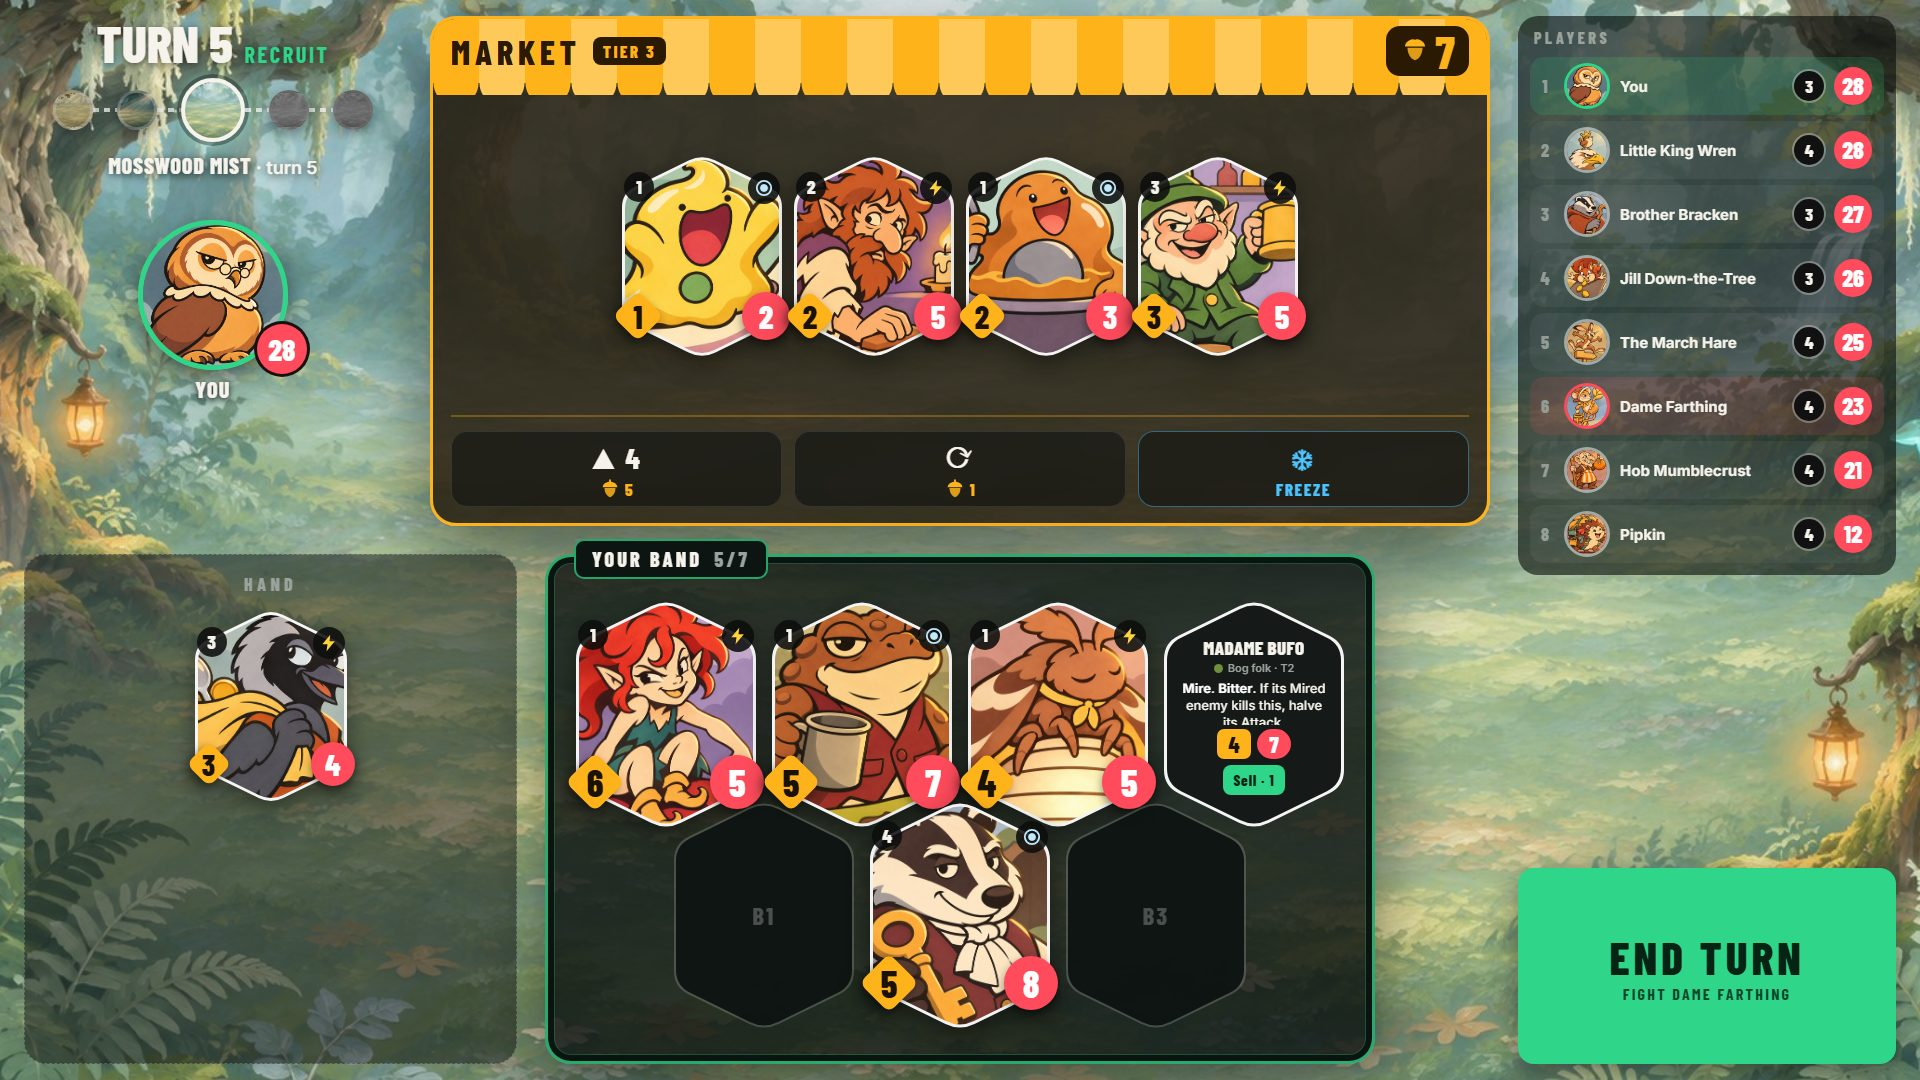
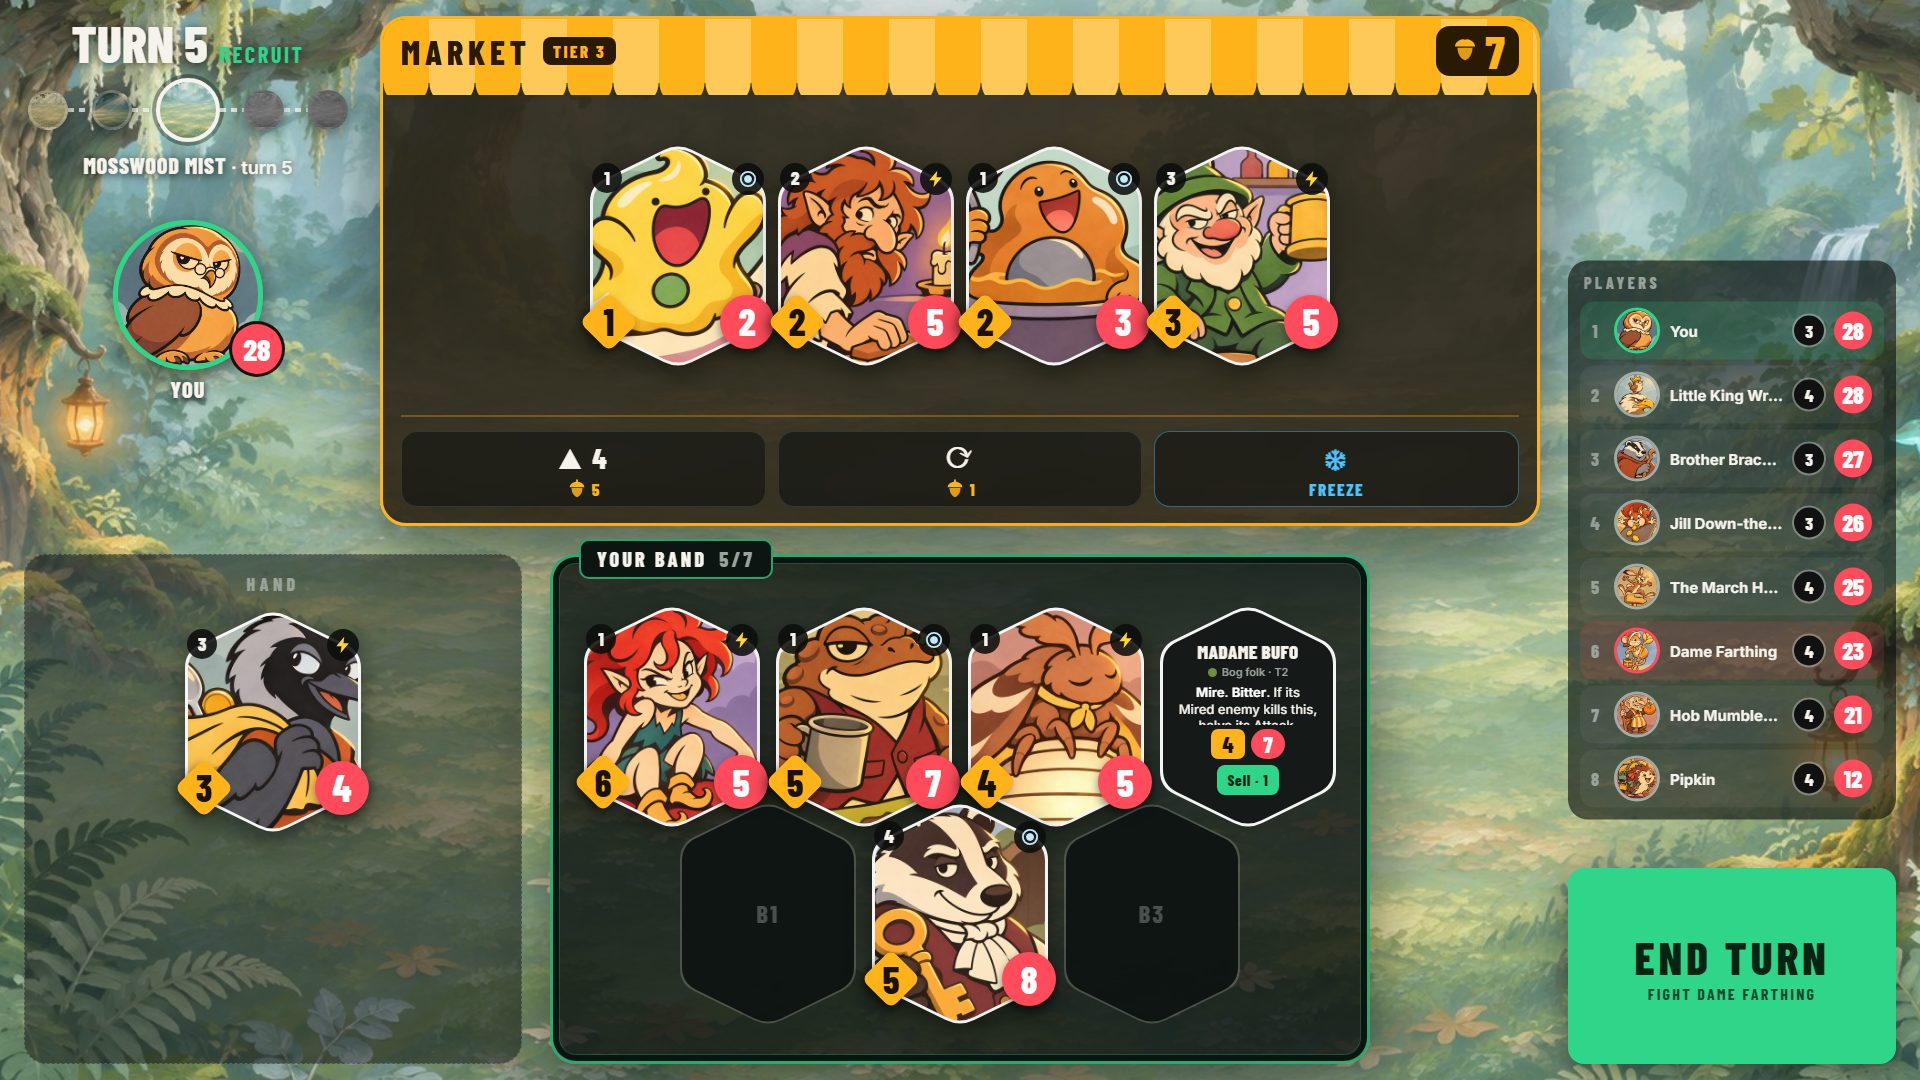
Clean Arena: one unit size everywhere, centred scoreboard, layout variants A-D
Owner direction (11 Nov): Clean Arena is the layout to build on; units are
the same size wherever they are; the scoreboard is centred top to bottom.

- Every unit (market, hand, your board, the opponent's) is 176 x 226.
- Scoreboard centred vertically in the right column.
- Lab dock "Layout A-D" (also ?layout=): A baseline; B slim portrait
  scoreboard with hero and End turn beside your board; C End turn as a
  tall bar on your board's edge; D portrait strip plus End turn bar.

Measured in all four: one unit size, board pinned across recruit and
fight, scoreboard centre y = 540, no overlapping blocks.

diff --git a/docs/design-lab/journey/arena/arena.css b/docs/design-lab/journey/arena/arena.css
@@ -29,7 +29,7 @@ html[data-mode="fight"] .jy-shade { background: radial-gradient(90% 80% at 50% 5
 .route-label b { font: 800 22px var(--num); letter-spacing: .04em; text-transform: uppercase; }
 
 /* ---- Leaderboard: the other players, top-right ---------------------------------- */
-.lobby { position: absolute; right: 24px; top: 16px; width: var(--side-up); display: flex; flex-direction: column; gap: 6px; padding: 12px; border-radius: 20px; background: rgba(10,14,12,.62); }
+.lobby { position: absolute; right: 24px; top: 50%; transform: translateY(-50%); width: var(--side-up); display: flex; flex-direction: column; gap: 6px; padding: 12px; border-radius: 20px; background: rgba(10,14,12,.62); }
 .lobby h4 { margin: 0 4px 4px; font: 800 16px var(--num); letter-spacing: .22em; color: var(--dim); text-transform: uppercase; }
 .pl { position: relative; display: flex; align-items: center; gap: 10px; height: 58px; padding: 0 12px 0 6px; border-radius: 14px; background: rgba(255,255,255,.05); }
 .pl .rank { font: 800 18px var(--num); color: var(--dim); width: 18px; text-align: center; font-style: normal; }
@@ -46,7 +46,7 @@ html[data-mode="fight"] .jy-shade { background: radial-gradient(90% 80% at 50% 5
    phase. Above it, centred: the market (recruit) or the opponent's board (fight).
    Sides: left holds the turn, route, your hero and the hand; right holds the
    leaderboard and End turn. */
-:root { --zw: 830px; --zh: 510px; --shopw: 1060px; --zgap: 28px; --top: 16px;
+:root { --uw: 176px; --uh: 226px; --zw: 820px; --zh: 510px; --shopw: 1160px; --zgap: 28px; --top: 16px;
   --low: calc(var(--top) + var(--zh) + var(--zgap));
   --side-up: calc(50% - var(--shopw) / 2 - 52px);
   --side-low: calc(50% - var(--zw) / 2 - 52px); }
@@ -61,9 +61,8 @@ html[data-mode="fight"] .jy-shade { background: radial-gradient(90% 80% at 50% 5
 .boardframe.foe .tab { top: auto; bottom: -18px; left: auto; right: 26px; border-color: rgba(255,75,92,.75); }
 .tab span { color: var(--dim); }
 /* Hex board units: 180 x 231. The back row tucks 30px into the front row's points. */
-.boardframe .brick { --row-gap: 0px; --slot-gap: 16px; --tuck: -30px; }
-.boardframe .brick .card, .boardframe .brick .slot { width: 180px; height: 231px; }
-.boardframe .front .atk, .boardframe .front .hp { width: 54px; height: 54px; font-size: 37px; }
+/* The back row tucks into the front row's points: minus a fifth of a unit, plus the gap. */
+.boardframe .brick { --row-gap: 0px; --slot-gap: 16px; --tuck: -29px; }
 
 /* The market: an amber stall above your board, with its gold and buttons inside. */
 .shopframe { position: absolute; left: calc(50% - var(--shopw) / 2); width: var(--shopw); top: var(--top); height: var(--zh); display: flex; flex-direction: column;
@@ -77,9 +76,7 @@ html[data-mode="fight"] .jy-shade { background: radial-gradient(90% 80% at 50% 5
 .awning .gold { margin-left: auto; gap: 6px; padding: 2px 14px; background: #2a1a04; border: 0; border-radius: 14px; backdrop-filter: none; }
 .awning .gold .acorn svg { width: 30px; height: 30px; } .awning .gold b { font-size: 46px; }
 .shopgrid { flex: 1; display: flex; gap: 12px; justify-content: center; align-items: center; padding: 14px 18px 0; }
-.shopgrid .card { width: 160px; height: 205px; }
-.shopgrid .front .atk, .shopgrid .front .hp { width: 48px; height: 48px; font-size: 32px; }
-.shopgrid .b-text { font-size: 11px; } .shopgrid .b-name { font-size: 15px; }
+
 .shopbtns { display: flex; gap: 12px; padding: 14px 0 16px; border-top: 2px solid rgba(255,179,26,.3); margin: 0 18px; }
 .shopbtns .btn.sq { flex: 1; height: 76px; width: auto; flex-direction: column; justify-content: center; gap: 2px; padding: 0; font-size: 28px; }
 .shopbtns .btn em { font: 800 17px var(--num); letter-spacing: .1em; }
@@ -89,16 +86,17 @@ html[data-mode="fight"] .jy-shade { background: radial-gradient(90% 80% at 50% 5
   background: rgba(14,18,17,.5); border: 1px dashed rgba(255,255,255,.22); border-radius: 22px; }
 .handtray .lbl { font: 800 18px var(--num); letter-spacing: .24em; color: var(--dim); }
 .handtray .hand { display: flex; flex-wrap: wrap; justify-content: center; align-content: flex-start; gap: 18px 16px; }
-.hand .card { width: 152px; height: 195px; }
-.hand .card .front .atk, .hand .card .front .hp { width: 44px; height: 44px; font-size: 30px; }
-.hand .b-text { font-size: 11px; } .hand .b-name { font-size: 15px; }
+
 .hand .none { font: 600 16px var(--txt); color: var(--dim); font-style: normal; margin-top: 40px; }
 .slot { position: relative; flex: none; display: grid; place-items: center; --hx-edge: rgba(255,255,255,.18); --hx-bw: 2px; }
 .slot .hx-art { background: rgba(10,16,14,.92); }
 .slot span { position: relative; font: 700 24px var(--num); letter-spacing: .1em; color: rgba(255,255,255,.25); }
 
 /* ---- Card: a hex picture, numbers on top --------------------------------------------- */
-.card { position: relative; width: 180px; height: 231px; perspective: 1100px; cursor: pointer; flex: none; }
+/* Every unit on screen is the same size, wherever it is: it is the same object
+   when it moves from the market to the hand to the board. */
+.card, .slot { width: var(--uw); height: var(--uh); }
+.card { position: relative; perspective: 1100px; cursor: pointer; flex: none; }
 .flip { position: absolute; inset: 0; transform-style: preserve-3d; transition: transform .55s cubic-bezier(.3,.7,.2,1); }
 .card.flipped .flip { transform: rotateY(180deg); }
 .face { position: absolute; inset: 0; backface-visibility: hidden; }
@@ -195,3 +193,40 @@ html[data-mode="fight"] .hero.me { top: calc(var(--low) + 120px); width: var(--s
 .result[hidden] { display: none; }
 .btn.end { height: 196px; font-size: 46px; }
 .btn.freeze em { color: var(--ice); }
+
+/* ---- Layout variants (lab dock: Layout A-D). Small moves around the same layout. ----------
+   A  Baseline: scoreboard rows centred on the right; End turn bottom-right; your hero
+      top-left under the turn and route; the hand bottom-left beside your board.
+   B  Portrait scoreboard: a slim strip of portraits on the right edge, centred; your hero
+      and End turn move into the right column, beside your board.
+   C  End turn on the board: a tall End turn bar fixed to your board's right edge, so the
+      right column holds only the scoreboard, centred over the full height.
+   D  Quiet sides: B's portrait strip plus C's End turn bar; your hero sits between them. */
+
+/* B and D: the scoreboard becomes a slim strip of portraits. */
+html[data-layout="b"] .lobby, html[data-layout="d"] .lobby { width: 96px; padding: 10px 8px; gap: 10px; }
+html[data-layout="b"] .lobby h4, html[data-layout="d"] .lobby h4 { font-size: 12px; letter-spacing: .1em; text-align: center; margin: 0; }
+html[data-layout="b"] .pl, html[data-layout="d"] .pl { height: 74px; padding: 0; justify-content: center; background: none; }
+html[data-layout="b"] .pl .rank, html[data-layout="d"] .pl .rank, html[data-layout="b"] .pl .pname, html[data-layout="d"] .pl .pname { display: none; }
+html[data-layout="b"] .pl img, html[data-layout="d"] .pl img { width: 66px; height: 66px; }
+html[data-layout="b"] .pl .php, html[data-layout="d"] .pl .php { position: absolute; right: -4px; bottom: -4px; min-width: 32px; height: 32px; font-size: 20px; line-height: 32px; }
+html[data-layout="b"] .pl .ptier, html[data-layout="d"] .pl .ptier { position: absolute; left: -2px; bottom: -2px; width: 26px; height: 26px; font-size: 15px; line-height: 26px; }
+html[data-layout="b"] .pl.you img, html[data-layout="d"] .pl.you img { box-shadow: 0 0 0 4px rgba(47,214,138,.4); }
+
+/* B: your hero and End turn in the right column, beside your board. */
+html[data-layout="b"] .btn.end { right: 140px; width: calc(var(--side-low) - 116px); }
+html[data-layout="b"] .result { right: 140px; width: calc(var(--side-low) - 116px); }
+html[data-layout="b"][data-mode="recruit"] .hero.me { left: auto; right: 140px; width: calc(var(--side-low) - 116px); top: calc(var(--low) + 20px); }
+html[data-layout="b"][data-mode="fight"] .hero.foe { left: auto; right: 140px; width: calc(var(--side-up) - 116px); top: 140px; }
+html[data-layout="b"][data-mode="fight"] .hero.me { left: auto; right: 140px; width: calc(var(--side-low) - 116px); top: calc(var(--low) + 20px); }
+
+/* C and D: End turn is a tall bar on your board's right edge, the same height as the board. */
+html[data-layout="c"] .btn.end, html[data-layout="d"] .btn.end { right: auto; left: calc(50% + var(--zw) / 2 + 14px); width: 124px; top: var(--low); bottom: auto; height: var(--zh); padding: 0 8px; text-align: center; font-size: 40px; line-height: 1; }
+html[data-layout="c"] .btn.end small, html[data-layout="d"] .btn.end small { margin-top: 10px; font-size: 13px; line-height: 1.2; }
+html[data-layout="c"] .result, html[data-layout="d"] .result { right: auto; left: calc(50% + var(--zw) / 2 + 14px); width: 160px; top: var(--low); bottom: auto; height: var(--zh); padding: 14px; justify-content: center; }
+html[data-layout="c"] .result > b, html[data-layout="d"] .result > b { font-size: 56px; }
+html[data-layout="c"] .result .btn.end, html[data-layout="d"] .result .btn.end { position: static; width: auto; height: 120px; font-size: 26px; padding: 0; }
+
+/* D: your hero between the End turn bar and the portrait strip. */
+html[data-layout="d"][data-mode="recruit"] .hero.me, html[data-layout="d"][data-mode="fight"] .hero.me { left: auto; right: 140px; width: calc(var(--side-low) - 260px); top: calc(var(--low) + 140px); }
+html[data-layout="d"][data-mode="fight"] .hero.foe { left: auto; right: 140px; width: calc(var(--side-up) - 116px); top: 140px; }

diff --git a/docs/design-lab/journey/index.html b/docs/design-lab/journey/index.html
@@ -58,10 +58,15 @@
       <div class="num">Lab #5</div>
       <h2>Clean Arena, art first</h2>
       <ul>
-        <li><b>Stacked, your board centred at the bottom.</b> Above it, centred: the market in the recruit, the opponent's board in the fight, front rows facing. Your board doesn't move a pixel between them.</li>
-        <li>Units are hex pictures with a white edge. The back row tucks 30px into the front row's points, so the board is shorter and the units bigger. Tier and ability top corners; Attack (amber diamond) and Health (red circle) sit on the cut lower corners.</li>
-        <li><b>Click</b> a unit to flip it: name, tribe, rules, and Buy / Sell / Play. <b>Hover</b> shows a quick reader.</li>
-        <li>Left: the turn and route, your hero, and the hand beside your board. Right: the leaderboard and End turn. The market is an amber stall with its gold in the awning and Tier up / Refresh / Freeze along its foot.</li>
+        <li><b>The layout to build on (owner, 11 Nov).</b> Your board is centred at the bottom; above it, centred, the market in the recruit or the opponent's board in the fight. Your board doesn't move a pixel between them.</li>
+        <li><b>Every unit is the same size everywhere</b> (176 × 226): market, hand, your board and the opponent's. A unit stays the same object as it moves from the market to the hand to the board.</li>
+        <li><b>The scoreboard is centred top to bottom</b> on the right.</li>
+        <li><b>Four small layout variants</b> (dock: Layout A–D, or the links below):
+          <a href="arena/index.html?layout=a&stop=3">A</a> baseline: scoreboard rows on the right, End turn bottom-right, your hero top-left, the hand beside your board ·
+          <a href="arena/index.html?layout=b&stop=3">B</a> a slim strip of portraits for the scoreboard; your hero and End turn beside your board on the right ·
+          <a href="arena/index.html?layout=c&stop=3">C</a> End turn is a tall bar on your board's right edge; the right column holds only the scoreboard ·
+          <a href="arena/index.html?layout=d&stop=3">D</a> quiet sides: the portrait strip plus the End turn bar.</li>
+        <li>Units are hex pictures; <b>click</b> flips one for its rules and Buy / Sell / Play, <b>hover</b> shows a reader.</li>
       </ul>
       <a class="open" href="arena/index.html">Open Clean Arena</a>
     </div>

diff --git a/docs/design-lab/journey/arena/arena.js b/docs/design-lab/journey/arena/arena.js
@@ -10,6 +10,7 @@
     mode: P.get('mode') || 'recruit',
     details: P.get('details') || 'both',
     flip: P.get('flip') || '',
+    layout: P.get('layout') || 'a',
   };
   let G, fightRun;
 
@@ -107,13 +108,15 @@
     if (fightRun) fightRun.stop();
     G = G && G.stop === S.stop && !arrive ? G : J.state(S.stop);
     document.documentElement.dataset.mode = S.mode;
+    document.documentElement.dataset.layout = S.layout;
     stage.classList.toggle('swap', !!swap && !J.static);
     stage.innerHTML = (S.mode === 'fight' ? fight() : recruit()) + '<div class="reader" hidden></div>' +
       (arrive ? `<div class="arrive"><small>Area ${S.stop + 1} of ${J.STOPS.length}</small><b>${G.area.name}</b><span>${G.area.sub}</span></div>` : '');
     J.labDock({
       stop: S.stop, mode: S.mode,
       onStop: (i) => travel(i), onMode: (m) => { S.mode = m; G = null; render(false, true); },
-      extra: [{ options: [['both', 'Flip + hover'], ['flip', 'Flip'], ['hover', 'Hover']], value: S.details, on: (v) => { S.details = v; render(); } }],
+      extra: [{ options: [['both', 'Flip + hover'], ['flip', 'Flip'], ['hover', 'Hover']], value: S.details, on: (v) => { S.details = v; render(); } },
+        { options: [['a', 'Layout A'], ['b', 'B'], ['c', 'C'], ['d', 'D']], value: S.layout, on: (v) => { S.layout = v; const q = new URLSearchParams(location.search); q.set('layout', v); history.replaceState(null, '', '?' + q); render(); } }],
     });
     if (S.mode === 'fight' && !J.static) {
       fightRun = J.fight(G.board, G.enemy, {
